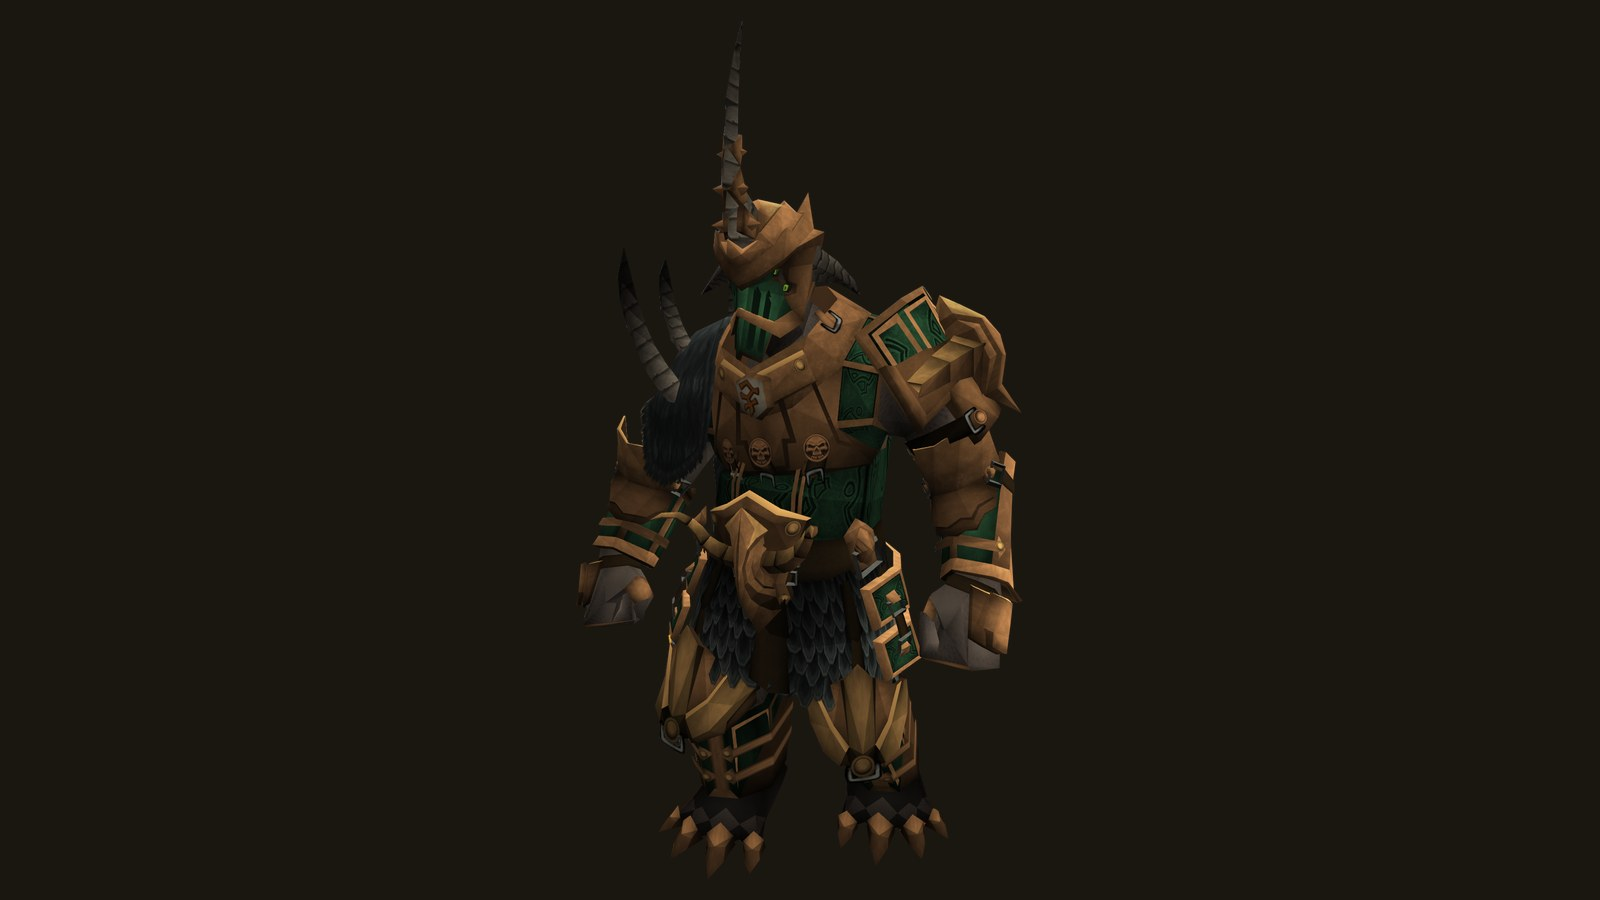
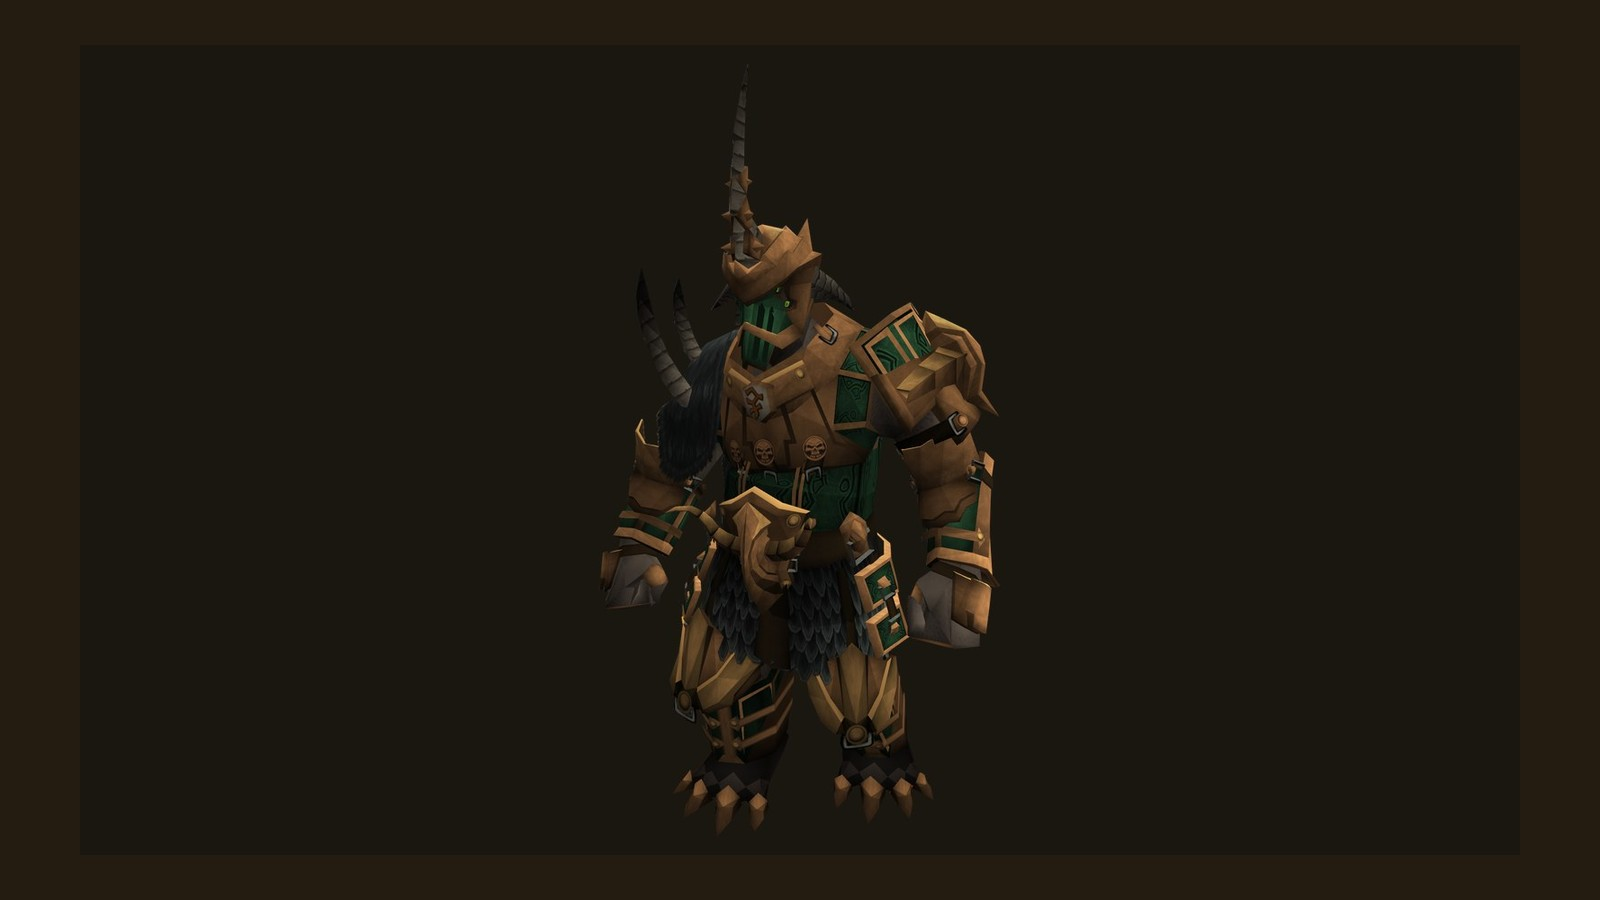
Put prayer-book fields behind god stills.
Same treatment as the dragons: Saradomin blue, Zamorak red, Guthix green, and the rest on their own hue.

Changed region(s): [[0.3438, 0.1244, 0.6562, 0.9644]]

diff --git a/src/places/place-card.tsx b/src/places/place-card.tsx
@@ -21,6 +21,7 @@ export function PlaceCard({
   game,
   caption,
   wash,
+  field,
 }: {
   to: PlaceTo;
   params: { id: string } | { god: string };
@@ -31,6 +32,7 @@ export function PlaceCard({
   god?: string;
   caption?: string;
   wash?: string;
+  field?: boolean;
 }) {
   const alt = `${name} in ${game}`;
   const href = hrefFor(to, params);
@@ -48,8 +50,14 @@ export function PlaceCard({
             <StillPhoto
               src={src}
               alt={alt}
-              className="aspect-video w-full bg-surface object-cover"
-              style={wash ? { boxShadow: `inset 0 3px 0 0 ${wash}` } : undefined}
+              className={`aspect-video w-full object-cover ${field ? "object-contain" : "bg-surface"}`}
+              style={
+                field && wash
+                  ? { backgroundColor: wash }
+                  : wash
+                    ? { boxShadow: `inset 0 3px 0 0 ${wash}` }
+                    : undefined
+              }
               onError={() => setGone(true)}
             />
           )}

diff --git a/src/routes/gods.$god.tsx b/src/routes/gods.$god.tsx
@@ -175,8 +175,8 @@ function GodFigure({ src, alt, caption, wash }: { src: string; alt: string; capt
       <img
         src={src}
         alt={alt}
-        className="aspect-video w-full rounded-md border border-line bg-surface object-cover"
-        style={wash ? { boxShadow: `inset 0 3px 0 0 ${wash}` } : undefined}
+        className="aspect-video w-full rounded-md border border-line object-contain"
+        style={{ backgroundColor: wash ?? "#1c1812" }}
         loading="lazy"
         decoding="async"
       />

diff --git a/src/lib/god-stills.ts b/src/lib/god-stills.ts
@@ -4,7 +4,7 @@ import { GOD_SLUGS } from "./gods";
 export function godStill(god: God, edition: "OSRS" | "RS3"): string | undefined {
   const slug = GOD_SLUGS[god];
   const folder = edition === "OSRS" ? "osrs" : "rs3";
-  const path = `/stills/${folder}/god-${slug}.jpg?v=5`;
+  const path = `/stills/${folder}/god-${slug}.jpg?v=6`;
   return GOD_STILL_OK[`${folder}:${slug}`] ? path : undefined;
 }
 

diff --git a/src/routes/gods.index.tsx b/src/routes/gods.index.tsx
@@ -42,6 +42,7 @@ function GodsIndex() {
               game={game}
               caption={godStillLine(name, edition)}
               wash={godWash(name)}
+              field
             />
           ))}
         </PlaceGrid>
